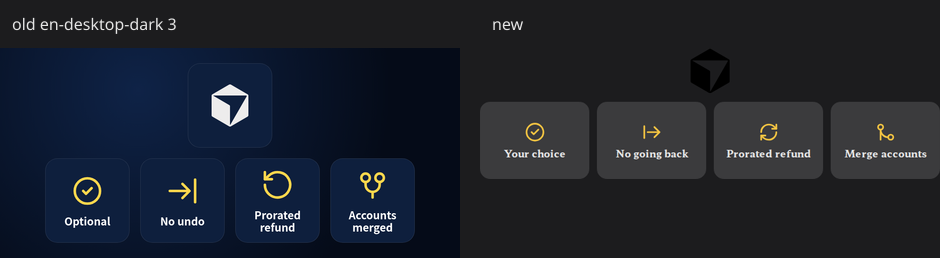
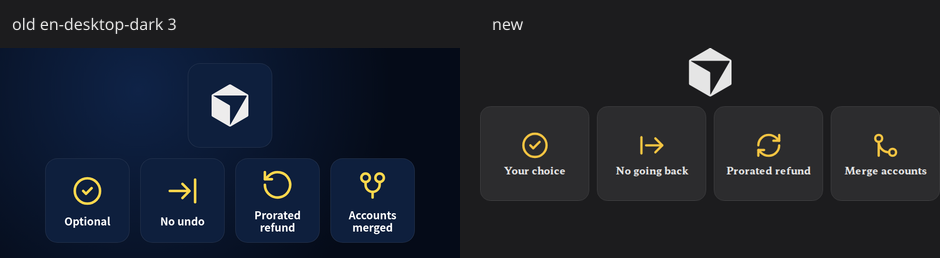
docs(evidence): refresh 2026-10-13 screenshots after the mark fix
Captures cover Korean and English, light and dark, desktop, 390px, and 360px. Matrix shots include the in-page scroll width.

diff --git a/evidence/README.md b/evidence/README.md
@@ -1,7 +1,9 @@
 # pr34 evidence
 
-Playwright screenshots of news issue 2026-10-13 after the cards and matrix change.
+Playwright screenshots of news issue 2026-10-13 after the cards and matrix change, including the dark-mode mark fix.
 
-`pages/` is the full issue page. The file name is `{ko|en}-{desktop|mobile}-{light|dark}.png`.
+`pages/` is the full issue page. The file name is `{ko|en}-{desktop|mobile-390|mobile-360}-{light|dark}.png`.
 
-`compare/` puts the old PNG on the left and the new block on the right. The file name adds the item number, 1 through 5.
+`compare/` puts the old PNG on the left and the new block on the right. The file name adds the item number, 1 through 5. Matrix items also have a `-viewport` file, which is the block at the real page width, including horizontal scroll.
+
+`metrics.json` records page overflow, grid columns, and clipped text. The capture script stops if the page grows wider than the viewport, if cards are not 4 columns on desktop or 2 columns at 390 and 360, or if a label or cell is clipped.
